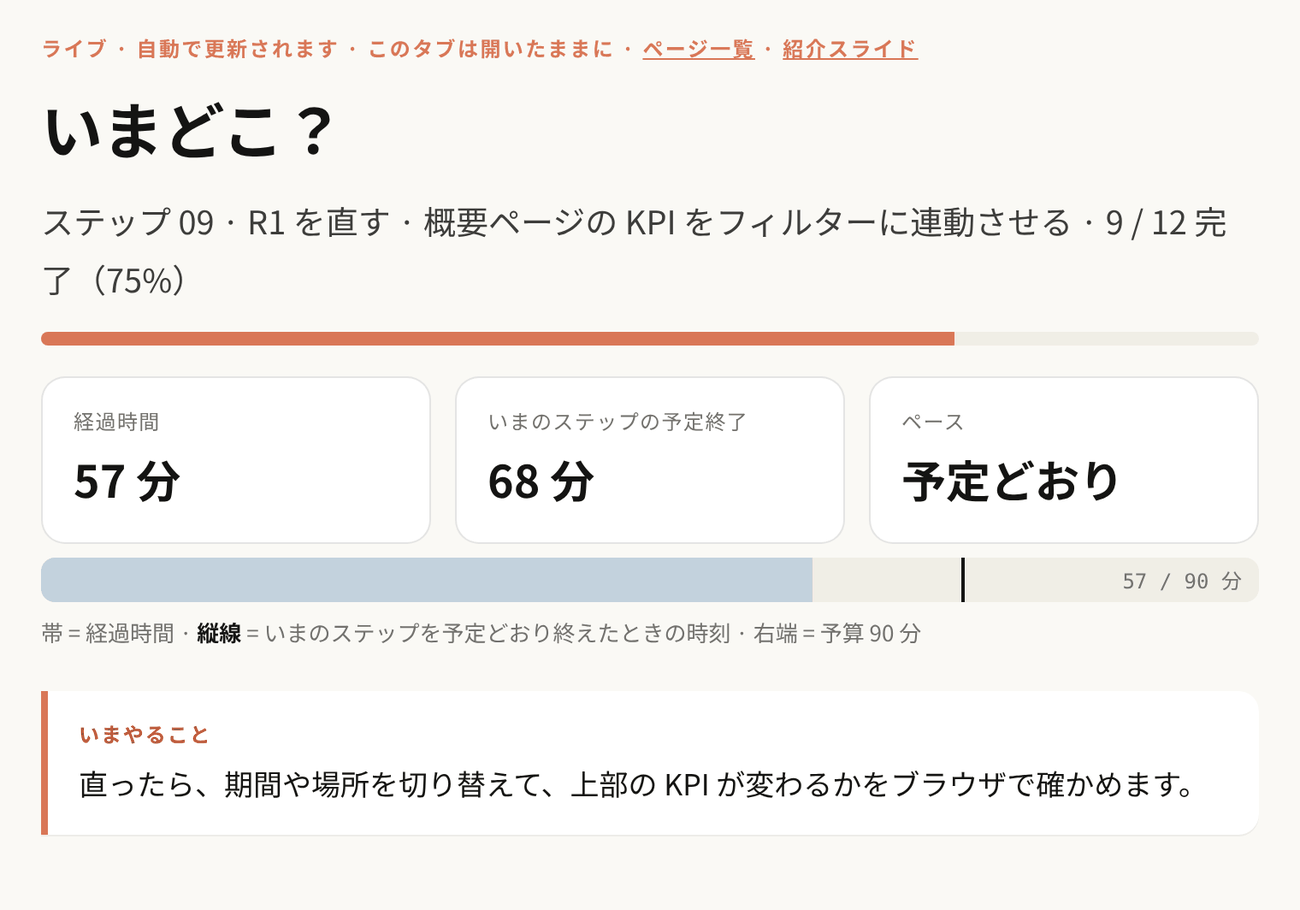
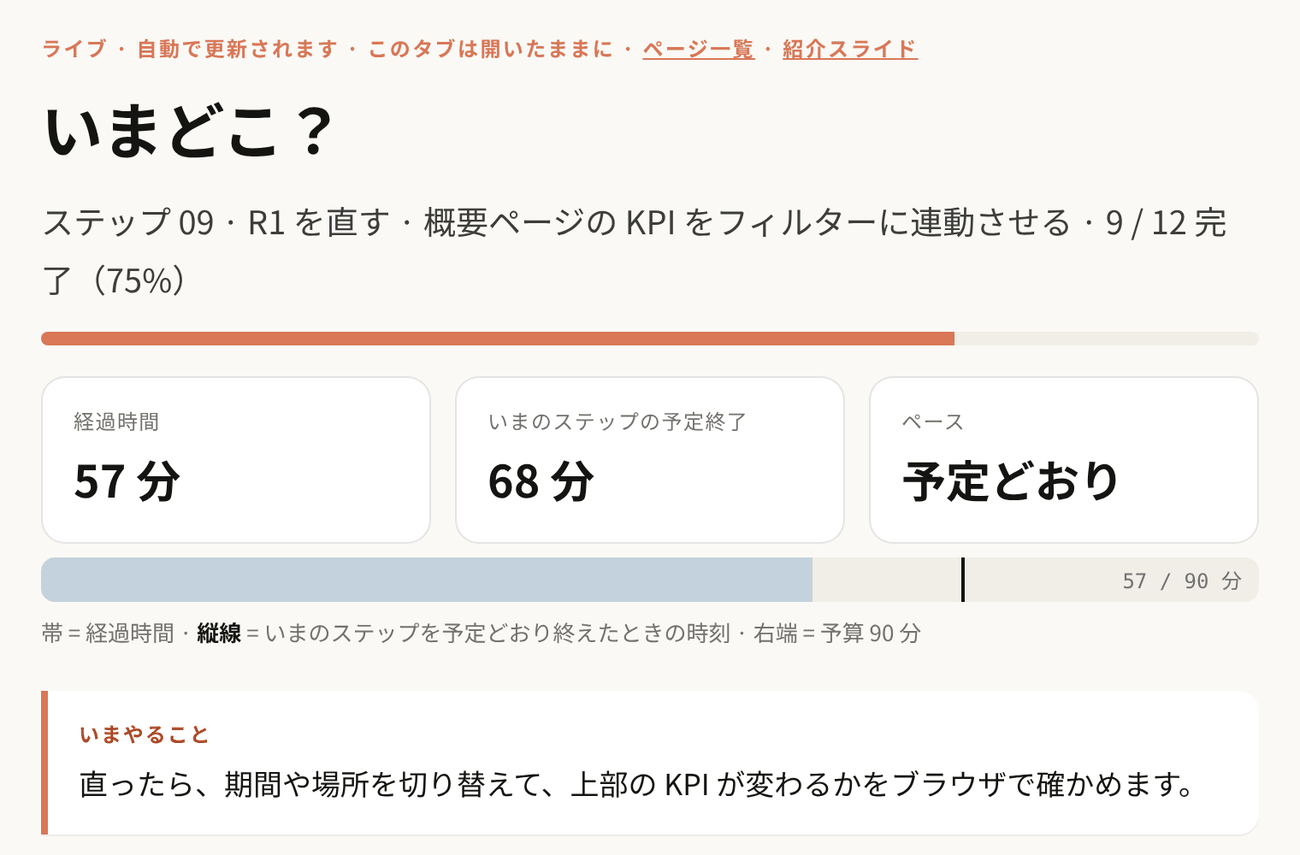
紹介スライド: 「いまどこ？」のページを今日の流れの次に移し、全体マップの全ステップを見せる

diff --git a/tutor/maint/intro-deck/slides.jsx b/tutor/maint/intro-deck/slides.jsx
@@ -417,10 +417,11 @@ function Slide_App() {
 }
 
 /* ── Live map and progress report: captures of the real pages, fed with one sample run ── */
-function Shot({ src, url, alt, flex, size, pins, bg, bare, fit }) {
+function Shot({ src, url, alt, flex, size, pins, bg, bare, fit, block }) {
   // The image always fills the frame's width. `size` is the image's own width / height: with it, `pins` (x and y in
   // percent of the whole image) stay on their spot at any frame size. `bare` drops the browser bar and sizes the frame
-  // to the image. `fit` keeps the browser bar but lets the frame take the image's height instead of the column's.
+  // to the image. `fit` keeps the browser bar but lets the frame take the image's height instead of the column's
+  // (in a row of shots); `block` does the same for a shot stacked in a column, where it takes the column's full width.
   const body = (
     <div style={{ position: 'absolute', top: 0, left: 0, width: '100%', aspectRatio: String(size) }}>
       <img src={src} alt={alt} style={{ position: 'absolute', top: 0, left: 0, width: '100%', height: 'auto', display: 'block' }} />
@@ -431,12 +432,12 @@ function Shot({ src, url, alt, flex, size, pins, bg, bare, fit }) {
     return <div style={{ position: 'relative', flex: '0 0 auto', width: '100%', aspectRatio: String(size), background: bg || '#fff', border: `1px solid ${C.LINE}`, borderRadius: 10, overflow: 'hidden', boxShadow: '0 6px 18px rgba(20,20,19,0.08)' }}>{body}</div>;
   }
   return (
-    <div style={{ flex: flex || 1, minHeight: 0, minWidth: 0, alignSelf: fit ? 'flex-start' : 'stretch', display: 'flex', flexDirection: 'column', background: bg || '#fff', border: `1px solid ${C.LINE}`, borderRadius: 12, overflow: 'hidden', boxShadow: '0 10px 28px rgba(20,20,19,0.10)' }}>
+    <div style={{ flex: block ? '0 0 auto' : (flex || 1), minHeight: 0, minWidth: 0, alignSelf: fit && !block ? 'flex-start' : 'stretch', display: 'flex', flexDirection: 'column', background: bg || '#fff', border: `1px solid ${C.LINE}`, borderRadius: 12, overflow: 'hidden', boxShadow: '0 10px 28px rgba(20,20,19,0.10)' }}>
       <div style={{ display: 'flex', alignItems: 'center', gap: 6, background: C.TINT, padding: '6px 12px', fontFamily: MONO, fontSize: 12, color: C.GRAY, flex: '0 0 auto' }}>
         <span style={{ width: 8, height: 8, borderRadius: 4, background: '#D9CFC0' }} /><span style={{ width: 8, height: 8, borderRadius: 4, background: '#D9CFC0' }} /><span style={{ width: 8, height: 8, borderRadius: 4, background: '#D9CFC0', marginRight: 6 }} />
         <span style={{ whiteSpace: 'nowrap', overflow: 'hidden', textOverflow: 'ellipsis' }}>{url}</span>
       </div>
-      <div style={fit ? { position: 'relative', aspectRatio: String(size), overflow: 'hidden' } : { flex: 1, minHeight: 0, position: 'relative', overflow: 'hidden' }}>{body}</div>
+      <div style={fit || block ? { position: 'relative', aspectRatio: String(size), overflow: 'hidden' } : { flex: 1, minHeight: 0, position: 'relative', overflow: 'hidden' }}>{body}</div>
     </div>
   );
 }
@@ -452,17 +453,30 @@ function Callout({ n, c, title, children }) {
   );
 }
 function Slide_Map() {
+  const mini = (n, title, text) => (
+    <div style={{ flex: 1, minWidth: 0, display: 'flex', gap: 9, alignItems: 'flex-start' }}>
+      <span style={{ position: 'relative', top: 1, display: 'inline-flex' }}><Pin n={n} size={20} /></span>
+      <div style={{ minWidth: 0 }}>
+        <div style={{ fontSize: 15, fontWeight: 700, lineHeight: 1.35, color: C.SLATE }}>{title}</div>
+        <div style={{ fontSize: 12.5, lineHeight: 1.5, color: C.INK }}>{text}</div>
+      </div>
+    </div>
+  );
   return (
     <Slide label="Live map" padding="40px 72px 56px">
       <Head kicker="途中で" h2={ph('「いまどこ？」ページが、', '現在地とペースを示し続ける')} />
       <div style={{ display: 'flex', gap: 26, flex: 1, minHeight: 0 }}>
-        <Shot fit flex={1.25} src="assets/map-top.png" size={1300 / 910} url="localhost:8766/map.html" alt="ステップ 09 の時点の「いまどこ？」ページの上半分。現在のステップ、経過時間、予定終了、ペース、90 分の予算の帯、いまやること" pins={[{ n: 1, x: 22, y: 30.4 }, { n: 2, x: 67.5, y: 63.8 }, { n: 3, x: 42, y: 80.6 }]} />
-        <div style={{ flex: 1, minWidth: 0, display: 'flex', flexDirection: 'column', gap: 11 }}>
-          <Callout n={1} title="現在地が 1 行でわかる">いまのステップと、完了した数。このタブは開いたままにします。</Callout>
-          <Callout n={2} title="90 分の予算とペース">帯が経過時間、縦線がいまのステップの予定終了。遅れたら、Claude が次を短めに運びます。</Callout>
-          <Callout n={3} title="いまやること">ターミナルに戻らなくても、次の一手がわかります。</Callout>
-          <Shot bare src="assets/map-act2.png" size={1100 / 480} alt="同じページの下にある全体マップの第2幕。終わったステップにはチェックと完了時刻が付き、いまのステップは黒い帯で示される" pins={[{ n: 4, x: 66, y: 24.5 }]} />
-          <Callout n={4} title="全体マップ">チェックは、Claude が完了を確かめた時点で付きます。</Callout>
+        <div style={{ flex: 1, minWidth: 0, display: 'flex', flexDirection: 'column', gap: 12 }}>
+          <Shot block src="assets/map-top.png" size={1300 / 855} url="localhost:8766/map.html · このタブは開いたままに" alt="ステップ 09 の時点の「いまどこ？」ページの上半分。現在のステップ、経過時間、予定終了、ペース、90 分の予算の帯、いまやること" pins={[{ n: 1, x: 22, y: 32.4 }, { n: 2, x: 67.5, y: 67.8 }, { n: 3, x: 42, y: 85.8 }]} />
+          <div style={{ display: 'flex', gap: 14 }}>
+            {mini(1, '現在地', 'いまのステップと、完了した数')}
+            {mini(2, '90 分の予算とペース', '帯が経過時間、縦線が予定終了')}
+            {mini(3, 'いまやること', '次の一手がわかります')}
+          </div>
+        </div>
+        <div style={{ flex: '0 0 462px', minWidth: 0, display: 'flex', flexDirection: 'column', gap: 10 }}>
+          <Shot bare src="assets/map-steps.png" size={1100 / 1103} alt="同じページの下にある全体マップ。第1幕の 7 ステップと第2幕の 5 ステップがすべて並び、終わったステップにはチェックと完了時刻が付き、いまのステップは黒い帯で示される" pins={[{ n: 4, x: 72, y: 6.2 }]} />
+          {mini(4, '全体マップ：12 ステップすべて', 'チェックは、Claude が完了を確かめた時点で付きます')}
         </div>
       </div>
     </Slide>
@@ -618,8 +632,8 @@ const SLIDES = [
   { c: Slide_How, title: 'Claude が 1 ステップずつ案内し、あなたが判断して手を動かす', notes: '進み方は、いつも同じです。Claude が次にやることと目安の時間を伝えます。短いページを読むこともあります。読み終えたり、作業が終わったりしたら、ターミナルに戻って「Done」と送ります。「できました」でも構いません。スラッシュコマンド、Shift+Tab、@ によるファイル参照、許可の確認は、あなたにしか入力できないので、Claude は何を入力するかを伝えて待ちます。そのあと Claude が、リポジトリの状態と記録を見て、そのステップの完了条件が満たされているかを確かめます。読むだけのステップは、「Done」でそのまま進みます。[ターミナル、ページ、緑の囲みの順に指す]' },
   { c: Slide_Case, title: 'あなたはコンサルタント。Meridian Components から RFP が届いた', notes: 'あなたの役は、RFP に応札するコンサルタントです。クライアントは Meridian Components。産業用オートメーション部品のディストリビューターで、倉庫はサンフランシスコ、ロンドン、東京にあります。依頼は、在庫管理ダッシュボードのモダナイズと機能拡張です。必須項目は R1 から R5 までで、優先順位順に並んでいます。最優先の R1 が、今日の第2幕で直すものです。手元には、RFP の本体、自社でまとめた背景メモ、前任ベンダーの引き継ぎメモ、そしてソースコードがあります。エンジニアでなくても進められます。決めるのはあなたで、提案書の文章とコードは Claude が書きます。' },
   { c: Slide_Agenda, title: '応札する第1幕、納品する第2幕、最後に進捗レポート', notes: '全体は 12 ステップです。第1幕は約 34 分。RFP とは何かを読み、実際の RFP を @ で読み込み、決めないと見積もれない点を探し、提案の方針を 4 つ決めます。提案書の文章は Claude が一気に書き、HTML のページとスライドにもします。第2幕は約 51 分。/start でアプリを起動して症状を確かめ、Plan Mode で原因を調べ、直してコミットし、サブエージェントのレビューから直す指摘を選びます。いちばん長いのは R1 を直すステップで、22 分です。最後に Claude が進捗レポートを作ります。合計は約 85 分で、5 分ほどの予備があります。色付きのラベルは、そのステップで初めて使う Claude Code の機能です。必要になったときに Claude が紹介します。' },
+  { c: Slide_Map, title: '「いまどこ？」ページが、現在地とペースを示し続ける', notes: '進行中の様子です。最初のステップで Claude がこのページをブラウザで開き、あとは自動で更新し続けます。タブは開いたままにしておいてください。1 番、いまのステップと完了した数。2 番、90 分の予算に対する経過時間の帯と、いまのステップを予定どおり終えたときの時刻を示す縦線。3 番、いまやること。4 番、右の画面が、同じページの下にある全体マップです。第1幕の 7 ステップと第2幕の 5 ステップ、あわせて 12 ステップがすべて並びます。チェックは「Done」と言った時点ではなく、Claude が完了を確かめた時点で付きます。画面は、サンプルのデータで表示した例です。' },
   { c: Slide_App, title: '最初に直すのは R1：概要ページの指標が、フィルターに連動しない', notes: '第2幕で手を入れるのが、このアプリです。Vue 3 と FastAPI の小さな在庫ダッシュボードで、データは JSON ファイル、データベースはありません。画面の上に期間や場所のフィルターがあり、その下に主要な指標が並びます。RFP には、フィルターを変えても指標が更新されない、と書かれています。ただし、書かれているのは症状だけです。どの数字が変わって、どれが変わらないのかは、アプリを起動して自分の目で確かめます。そのうえで Plan Mode で原因を調べ、直してコミットし、サブエージェントにレビューさせます。R2 から R5 は次のフェーズで、最後のレポートに引き継ぎとしてまとめます。[1 番のフィルター、2 番の指標の順に指す]' },
-  { c: Slide_Map, title: '「いまどこ？」ページが、現在地とペースを示し続ける', notes: '進行中の様子です。最初のステップで Claude がこのページをブラウザで開き、あとは自動で更新し続けます。タブは開いたままにしておいてください。1 番、いまのステップと完了した数。2 番、90 分の予算に対する経過時間の帯と、いまのステップを予定どおり終えたときの時刻を示す縦線。3 番、いまやること。4 番、同じページの下にある全体マップです。チェックは「Done」と言った時点ではなく、Claude が完了を確かめた時点で付きます。画面は、サンプルのデータで表示した例です。' },
   { c: Slide_Report, title: '今日の進捗を、レポートに自動でまとめる', notes: '終わったときの様子です。最後のステップで Claude にレポートを頼むと、数字はチューターが実行記録から埋め、文章は Claude が書いて、ブラウザで開きます。コンサルタントがクライアントと自社に渡す進捗レポートの形になっていて、今日の成果、予定と実績のタイムライン、提案書、納品したコミット、コードレビュー、判断と軌道修正、そして次フェーズへの引き継ぎが 1 ページにまとまります。画面は、サンプルのデータで表示した例です。' },
   { c: Slide_Keep, title: '作ったものは、リポジトリのファイルとコミットとして手元に残る', notes: 'ここで作るものは、どれもリポジトリの中の実際のファイルとコミットです。proposal フォルダーには、提案書と、その HTML ページとスライド、そして進捗レポートが入ります。コードの変更は、作業ブランチ fix/overview-filters のコミットとして残ります。概要ページを直したコミットと、レビューの指摘を直したコミットです。最後に、自分の fork に push して Pull Request を作るところまで、Claude が手伝います。' },
   { c: Slide_Help, title: '行き詰まっても、中断しても、続きから再開できる', notes: '行き詰まったら、そのまま Claude に伝えてください。足りないものを一緒に片付けるか、時間がなければ確認のうえで先へ進めます。中断したときは、start.sh をもう一度実行すれば同じステップに戻れます。進捗は tutor/state フォルダーに保存されています。最初からやり直すときは reset-demo.sh です。それまでの作業は退避用のブランチに残ります。' },

diff --git a/tutor/pages/intro/deck.js b/tutor/pages/intro/deck.js
@@ -1,4 +1,4 @@
-/* GENERATED by tutor/maint/intro-deck/build.mjs from shell.jsx + slides.jsx · source sha256:d5254212eae996fd · do not edit, edit the .jsx and rebuild */
+/* GENERATED by tutor/maint/intro-deck/build.mjs from shell.jsx + slides.jsx · source sha256:14a8d724567811c9 · do not edit, edit the .jsx and rebuild */
 (function () {
 "use strict";
 const {
@@ -1826,7 +1826,8 @@ function Shot({
   pins,
   bg,
   bare,
-  fit
+  fit,
+  block
 }) {
   const body = React.createElement("div", {
     style: {
@@ -1877,10 +1878,10 @@ function Shot({
   }
   return React.createElement("div", {
     style: {
-      flex: flex || 1,
+      flex: block ? '0 0 auto' : flex || 1,
       minHeight: 0,
       minWidth: 0,
-      alignSelf: fit ? 'flex-start' : 'stretch',
+      alignSelf: fit && !block ? 'flex-start' : 'stretch',
       display: 'flex',
       flexDirection: 'column',
       background: bg || '#fff',
@@ -1930,7 +1931,7 @@ function Shot({
       textOverflow: 'ellipsis'
     }
   }, url)), React.createElement("div", {
-    style: fit ? {
+    style: fit || block ? {
       position: 'relative',
       aspectRatio: String(size),
       overflow: 'hidden'
@@ -1984,6 +1985,41 @@ function Callout({
   }, children)));
 }
 function Slide_Map() {
+  const mini = (n, title, text) => React.createElement("div", {
+    style: {
+      flex: 1,
+      minWidth: 0,
+      display: 'flex',
+      gap: 9,
+      alignItems: 'flex-start'
+    }
+  }, React.createElement("span", {
+    style: {
+      position: 'relative',
+      top: 1,
+      display: 'inline-flex'
+    }
+  }, React.createElement(Pin, {
+    n: n,
+    size: 20
+  })), React.createElement("div", {
+    style: {
+      minWidth: 0
+    }
+  }, React.createElement("div", {
+    style: {
+      fontSize: 15,
+      fontWeight: 700,
+      lineHeight: 1.35,
+      color: C.SLATE
+    }
+  }, title), React.createElement("div", {
+    style: {
+      fontSize: 12.5,
+      lineHeight: 1.5,
+      color: C.INK
+    }
+  }, text)));
   return React.createElement(Slide, {
     label: "Live map",
     padding: "40px 72px 56px"
@@ -1997,57 +2033,57 @@ function Slide_Map() {
       flex: 1,
       minHeight: 0
     }
-  }, React.createElement(Shot, {
-    fit: true,
-    flex: 1.25,
-    src: "assets/map-top.png",
-    size: 1300 / 910,
-    url: "localhost:8766/map.html",
-    alt: "\u30B9\u30C6\u30C3\u30D7 09 \u306E\u6642\u70B9\u306E\u300C\u3044\u307E\u3069\u3053\uFF1F\u300D\u30DA\u30FC\u30B8\u306E\u4E0A\u534A\u5206\u3002\u73FE\u5728\u306E\u30B9\u30C6\u30C3\u30D7\u3001\u7D4C\u904E\u6642\u9593\u3001\u4E88\u5B9A\u7D42\u4E86\u3001\u30DA\u30FC\u30B9\u300190 \u5206\u306E\u4E88\u7B97\u306E\u5E2F\u3001\u3044\u307E\u3084\u308B\u3053\u3068",
-    pins: [{
-      n: 1,
-      x: 22,
-      y: 30.4
-    }, {
-      n: 2,
-      x: 67.5,
-      y: 63.8
-    }, {
-      n: 3,
-      x: 42,
-      y: 80.6
-    }]
-  }), React.createElement("div", {
+  }, React.createElement("div", {
     style: {
       flex: 1,
       minWidth: 0,
       display: 'flex',
       flexDirection: 'column',
-      gap: 11
+      gap: 12
     }
-  }, React.createElement(Callout, {
-    n: 1,
-    title: "\u73FE\u5728\u5730\u304C 1 \u884C\u3067\u308F\u304B\u308B"
-  }, "\u3044\u307E\u306E\u30B9\u30C6\u30C3\u30D7\u3068\u3001\u5B8C\u4E86\u3057\u305F\u6570\u3002\u3053\u306E\u30BF\u30D6\u306F\u958B\u3044\u305F\u307E\u307E\u306B\u3057\u307E\u3059\u3002"), React.createElement(Callout, {
-    n: 2,
-    title: "90 \u5206\u306E\u4E88\u7B97\u3068\u30DA\u30FC\u30B9"
-  }, "\u5E2F\u304C\u7D4C\u904E\u6642\u9593\u3001\u7E26\u7DDA\u304C\u3044\u307E\u306E\u30B9\u30C6\u30C3\u30D7\u306E\u4E88\u5B9A\u7D42\u4E86\u3002\u9045\u308C\u305F\u3089\u3001Claude \u304C\u6B21\u3092\u77ED\u3081\u306B\u904B\u3073\u307E\u3059\u3002"), React.createElement(Callout, {
-    n: 3,
-    title: "\u3044\u307E\u3084\u308B\u3053\u3068"
-  }, "\u30BF\u30FC\u30DF\u30CA\u30EB\u306B\u623B\u3089\u306A\u304F\u3066\u3082\u3001\u6B21\u306E\u4E00\u624B\u304C\u308F\u304B\u308A\u307E\u3059\u3002"), React.createElement(Shot, {
+  }, React.createElement(Shot, {
+    block: true,
+    src: "assets/map-top.png",
+    size: 1300 / 855,
+    url: "localhost:8766/map.html \xB7 \u3053\u306E\u30BF\u30D6\u306F\u958B\u3044\u305F\u307E\u307E\u306B",
+    alt: "\u30B9\u30C6\u30C3\u30D7 09 \u306E\u6642\u70B9\u306E\u300C\u3044\u307E\u3069\u3053\uFF1F\u300D\u30DA\u30FC\u30B8\u306E\u4E0A\u534A\u5206\u3002\u73FE\u5728\u306E\u30B9\u30C6\u30C3\u30D7\u3001\u7D4C\u904E\u6642\u9593\u3001\u4E88\u5B9A\u7D42\u4E86\u3001\u30DA\u30FC\u30B9\u300190 \u5206\u306E\u4E88\u7B97\u306E\u5E2F\u3001\u3044\u307E\u3084\u308B\u3053\u3068",
+    pins: [{
+      n: 1,
+      x: 22,
+      y: 32.4
+    }, {
+      n: 2,
+      x: 67.5,
+      y: 67.8
+    }, {
+      n: 3,
+      x: 42,
+      y: 85.8
+    }]
+  }), React.createElement("div", {
+    style: {
+      display: 'flex',
+      gap: 14
+    }
+  }, mini(1, '現在地', 'いまのステップと、完了した数'), mini(2, '90 分の予算とペース', '帯が経過時間、縦線が予定終了'), mini(3, 'いまやること', '次の一手がわかります'))), React.createElement("div", {
+    style: {
+      flex: '0 0 462px',
+      minWidth: 0,
+      display: 'flex',
+      flexDirection: 'column',
+      gap: 10
+    }
+  }, React.createElement(Shot, {
     bare: true,
-    src: "assets/map-act2.png",
-    size: 1100 / 480,
-    alt: "\u540C\u3058\u30DA\u30FC\u30B8\u306E\u4E0B\u306B\u3042\u308B\u5168\u4F53\u30DE\u30C3\u30D7\u306E\u7B2C2\u5E55\u3002\u7D42\u308F\u3063\u305F\u30B9\u30C6\u30C3\u30D7\u306B\u306F\u30C1\u30A7\u30C3\u30AF\u3068\u5B8C\u4E86\u6642\u523B\u304C\u4ED8\u304D\u3001\u3044\u307E\u306E\u30B9\u30C6\u30C3\u30D7\u306F\u9ED2\u3044\u5E2F\u3067\u793A\u3055\u308C\u308B",
+    src: "assets/map-steps.png",
+    size: 1100 / 1103,
+    alt: "\u540C\u3058\u30DA\u30FC\u30B8\u306E\u4E0B\u306B\u3042\u308B\u5168\u4F53\u30DE\u30C3\u30D7\u3002\u7B2C1\u5E55\u306E 7 \u30B9\u30C6\u30C3\u30D7\u3068\u7B2C2\u5E55\u306E 5 \u30B9\u30C6\u30C3\u30D7\u304C\u3059\u3079\u3066\u4E26\u3073\u3001\u7D42\u308F\u3063\u305F\u30B9\u30C6\u30C3\u30D7\u306B\u306F\u30C1\u30A7\u30C3\u30AF\u3068\u5B8C\u4E86\u6642\u523B\u304C\u4ED8\u304D\u3001\u3044\u307E\u306E\u30B9\u30C6\u30C3\u30D7\u306F\u9ED2\u3044\u5E2F\u3067\u793A\u3055\u308C\u308B",
     pins: [{
       n: 4,
-      x: 66,
-      y: 24.5
+      x: 72,
+      y: 6.2
     }]
-  }), React.createElement(Callout, {
-    n: 4,
-    title: "\u5168\u4F53\u30DE\u30C3\u30D7"
-  }, "\u30C1\u30A7\u30C3\u30AF\u306F\u3001Claude \u304C\u5B8C\u4E86\u3092\u78BA\u304B\u3081\u305F\u6642\u70B9\u3067\u4ED8\u304D\u307E\u3059\u3002"))));
+  }), mini(4, '全体マップ：12 ステップすべて', 'チェックは、Claude が完了を確かめた時点で付きます'))));
 }
 function Slide_Report() {
   const G = C.GREEN;
@@ -2515,13 +2551,13 @@ const SLIDES = [{
   title: '応札する第1幕、納品する第2幕、最後に進捗レポート',
   notes: '全体は 12 ステップです。第1幕は約 34 分。RFP とは何かを読み、実際の RFP を @ で読み込み、決めないと見積もれない点を探し、提案の方針を 4 つ決めます。提案書の文章は Claude が一気に書き、HTML のページとスライドにもします。第2幕は約 51 分。/start でアプリを起動して症状を確かめ、Plan Mode で原因を調べ、直してコミットし、サブエージェントのレビューから直す指摘を選びます。いちばん長いのは R1 を直すステップで、22 分です。最後に Claude が進捗レポートを作ります。合計は約 85 分で、5 分ほどの予備があります。色付きのラベルは、そのステップで初めて使う Claude Code の機能です。必要になったときに Claude が紹介します。'
 }, {
+  c: Slide_Map,
+  title: '「いまどこ？」ページが、現在地とペースを示し続ける',
+  notes: '進行中の様子です。最初のステップで Claude がこのページをブラウザで開き、あとは自動で更新し続けます。タブは開いたままにしておいてください。1 番、いまのステップと完了した数。2 番、90 分の予算に対する経過時間の帯と、いまのステップを予定どおり終えたときの時刻を示す縦線。3 番、いまやること。4 番、右の画面が、同じページの下にある全体マップです。第1幕の 7 ステップと第2幕の 5 ステップ、あわせて 12 ステップがすべて並びます。チェックは「Done」と言った時点ではなく、Claude が完了を確かめた時点で付きます。画面は、サンプルのデータで表示した例です。'
+}, {
   c: Slide_App,
   title: '最初に直すのは R1：概要ページの指標が、フィルターに連動しない',
   notes: '第2幕で手を入れるのが、このアプリです。Vue 3 と FastAPI の小さな在庫ダッシュボードで、データは JSON ファイル、データベースはありません。画面の上に期間や場所のフィルターがあり、その下に主要な指標が並びます。RFP には、フィルターを変えても指標が更新されない、と書かれています。ただし、書かれているのは症状だけです。どの数字が変わって、どれが変わらないのかは、アプリを起動して自分の目で確かめます。そのうえで Plan Mode で原因を調べ、直してコミットし、サブエージェントにレビューさせます。R2 から R5 は次のフェーズで、最後のレポートに引き継ぎとしてまとめます。[1 番のフィルター、2 番の指標の順に指す]'
-}, {
-  c: Slide_Map,
-  title: '「いまどこ？」ページが、現在地とペースを示し続ける',
-  notes: '進行中の様子です。最初のステップで Claude がこのページをブラウザで開き、あとは自動で更新し続けます。タブは開いたままにしておいてください。1 番、いまのステップと完了した数。2 番、90 分の予算に対する経過時間の帯と、いまのステップを予定どおり終えたときの時刻を示す縦線。3 番、いまやること。4 番、同じページの下にある全体マップです。チェックは「Done」と言った時点ではなく、Claude が完了を確かめた時点で付きます。画面は、サンプルのデータで表示した例です。'
 }, {
   c: Slide_Report,
   title: '今日の進捗を、レポートに自動でまとめる',
